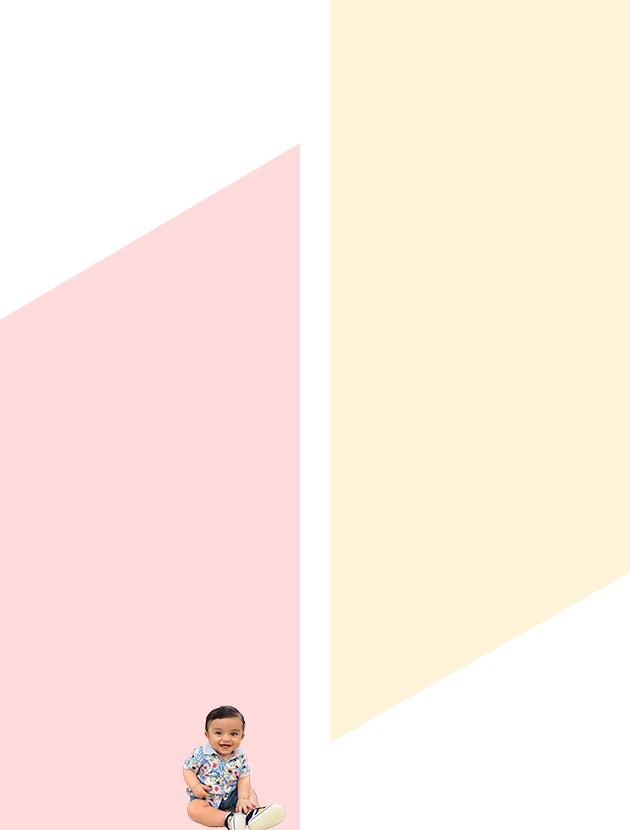
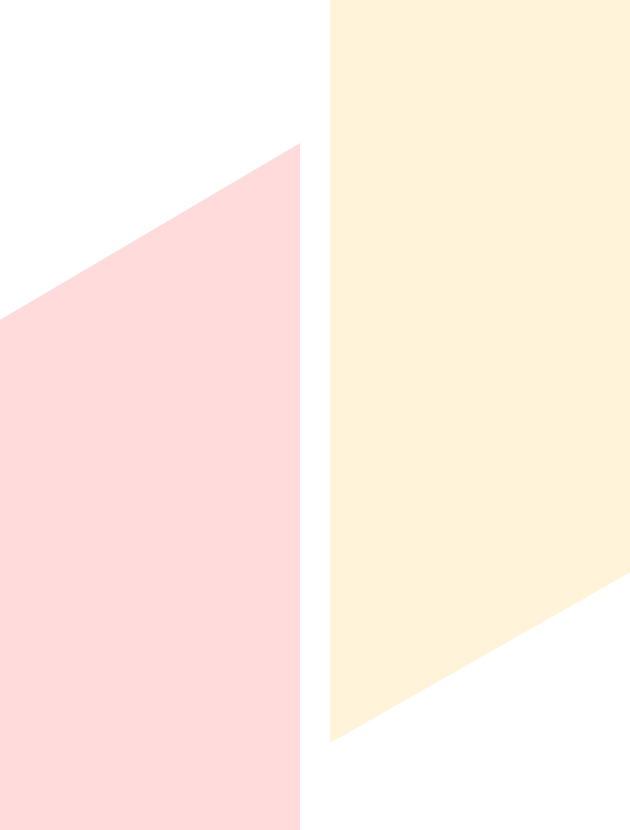
23434

Changed region(s): [[0.2714, 0.8434, 0.4524, 1.0]]

diff --git a/index.html b/index.html
@@ -17,6 +17,7 @@
         <div class="card-body">
 
             <div class="frame2">
+                <img src="img/Untitled-2.png" class="mtahakdsajd">
                 <h4 class="firstname">🎉 تولد محمد طاها کوچولو 🎂</h4>
                 <p>خوشحال میشیم تو جشنمون کنارمون باشید!</p>
 
@@ -97,7 +98,7 @@
               // اگر کاربر هنوز کلیک نکرده بود
               const hint = document.createElement("div");
               hint.innerText = "برای پخش آهنگ اینجا ضربه بزنید 🎵";
-              hint.style = "position: fixed; top: 50%; left: 50%; transform: translate(-50%, -50%); background: #fff3cd; padding: 15px 25px; border-radius: 12px; font-size: 1.1rem; font-family: Vazir; z-index: 9999;";
+              hint.style = "position: fixed; top: 100%; left: 50%; transform: translate(-50%, -50%); background: #fff3cd; padding: 15px 25px; border-radius: 12px; font-size: 1.1rem; font-family: Vazir; z-index: 9999;";
               hint.addEventListener('click', () => {
                 music.play();
                 hint.remove();

diff --git a/main.css b/main.css
@@ -130,3 +130,9 @@ font-family: 'Vazir', sans-serif; /* ← این خط رو اضافه کن */
     border-radius:
   20px;
   }
+  .mtahakdsajd {
+    width: 110px !important;
+    position: absolute;
+    z-index: -1;
+    left: 0px;
+  }
